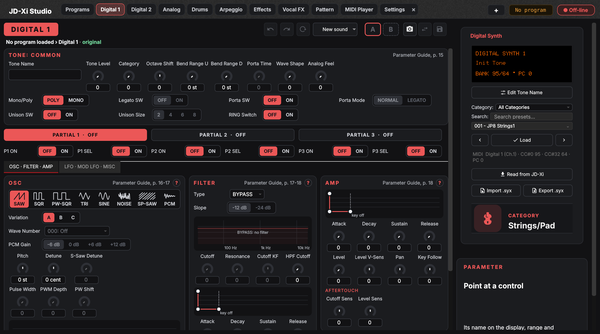
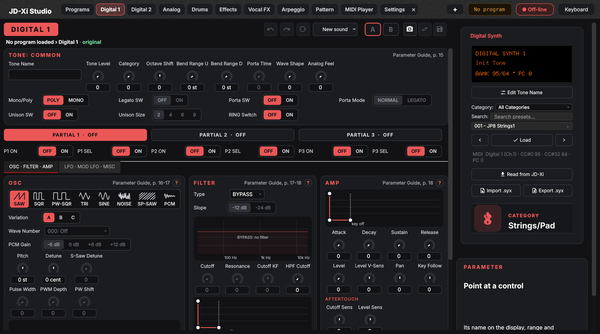
Version 1.0.0rc1 (v1.0.0-rc.1): CHANGELOG section, What's new, docs, screenshots
CHANGELOG: the Unreleased changes are 1.0.0-rc.1 (2026-11-22). What's new
covers the MIDI Player (sounds of the parts, GM filter, Solo, timing),
the Programs mixer and the menus. MIDI Player docs: None played, Sounds
of the parts, Channels, Event filter. Screenshots captured again.

Claude-Session: https://claude.ai/code/session_01FkUcAB82dzxH97bL4dyfe5

diff --git a/jdxi_editor/project.py b/jdxi_editor/project.py
@@ -1,6 +1,6 @@
 """Project metadata and version information for JD-Xi Studio."""
 
-__version__ = "1.0.0b2"  # PEP 440; the release tag is v1.0.0-beta.2
+__version__ = "1.0.0rc1"  # PEP 440; the release tag is v1.0.0-rc.1
 # An independent edition of JDXI-Editor by Mark Brooks, with a name of its own
 # everywhere (interface, installer, settings, user folder), so the two can be
 # installed side by side and are never confused

diff --git a/doc/whats-new.rst b/doc/whats-new.rst
@@ -1,16 +1,27 @@
 What's New in 1.0.0 rc 1
 ========================
 
-The release candidate: the MIDI Player fits a file to the JD-Xi, the state shown is closer to what
-the JD-Xi really holds, and FluidSynth is gone.
+The release candidate: the MIDI Player fits a General MIDI file to the JD-Xi — its tracks and its
+sounds — and plays it on time, the Programs page is a mixer, the menus follow the app. Tried on the
+JD-Xi: the fixes from those checks are in this version.
 
 MIDI Player
 -----------
 
-* The «MIDI file» tab is the **MIDI Player**.
-* **Fit to the JD-Xi** says which of the file's tracks the JD-Xi plays; **Assign tracks to
-  parts…** proposes a part for each (drums, then one track each for Digital 1, Digital 2, Analog),
-  to check and apply. **Starting sounds** gives the parts a sound to start from.
+* The «MIDI file» tab is the **MIDI Player**; **Close** empties it (asking first when the file has
+  changes not saved).
+* **Fit to the JD-Xi** says which of the file's tracks the JD-Xi plays. **Assign tracks to parts…**
+  proposes a part for each (drums, then one track each for Digital 1, Digital 2, Analog), in the
+  parts' colours; **None played** to choose only the tracks you want; opened again, it shows what
+  was applied.
+* **Sounds of the parts**: the JD-Xi presets closest to the file's General MIDI instruments (a
+  Digital tone, an Analog bass or lead, a drum kit), written into the file and sent on Apply — a
+  GM file sounds close to its original the first time it is played.
+* Event filter › **GM** (on by default): a General MIDI file's program changes no longer change
+  the parts' sounds (and lose the edits not saved); the JD-Xi's own still go.
+* **Channels**: Mute and **Solo** per channel, as on a mixer.
+* On time on Windows: notes leave on average 0.6 ms after when the file says (it was about 8 ms);
+  two tracks on the same note no longer leave it hanging.
 * Big files load in seconds, with their progress on the display; the Pattern imports the file when
   shown, its first 64 bars.
 * Tracks: **Expand** for more room, a grip for their height; a track without a name shows the
@@ -20,8 +31,23 @@ MIDI Player
 Programs
 --------
 
+* The mixer: above each fader the part's **Pan**, **Delay** and **Reverb**; the faders are the
+  editors' levels. **Undo / Redo** of the whole program, in any tab.
+* **Program settings** (was *Program parts*), right after Programs: what the program keeps besides
+  its tones, part by part.
 * Playlist: Add / Remove over the songs, Play, Stop, Pause and **Mix** in a compact row; the
   **Extra sound** column (a Digital preset on the Analog part) readable.
+
+Windows and menus
+-----------------
+
+* The menus follow the app: **File** (Patch, MIDI Player, Preferences), **Editor** (the tabs, in
+  their order, Ctrl+0–9), **JD-Xi**, **Tools**, **Window**, **Help**; what cannot be done is greyed
+  out, its tooltip saying why. Ctrl+O / Ctrl+S are the patch's.
+* **Editors** in the keyboard window and **Keyboard** in the editors window bring the other one up.
+* Keyboard window: the LFO **Rate** slider moves the LFO rate (it moved the Amp depth); **Env**
+  starts in the middle, where the program is as saved.
+* The «JD-Xi connected» badge goes Off-line when the JD-Xi is switched off.
 
 What the JD-Xi holds
 --------------------

diff --git a/doc/midi_file_player.rst b/doc/midi_file_player.rst
@@ -19,11 +19,23 @@ Fit to the JD-Xi
 * **Assign tracks to parts…** proposes a part for each track that plays notes, in a table you
   can change before **Apply**: the drum tracks to Drums; for each melodic part the one track
   recognised best for it — the bass to Digital 1, keys or guitars to Digital 2, strings to Analog
-  (the Analog part plays one note at a time); the other tracks are not played. A track's channel
-  can also be set by hand in its header.
+  (the Analog part plays one note at a time); the other tracks are not played. The Part column
+  shows each part in its colour, grey when not played. **None played** sets every track «Not
+  played», to choose only the ones you want; **Proposal** and **As now** switch between the
+  proposal and the parts the tracks are on (opened again after Apply, it shows what was applied).
+  A track's channel can also be set by hand in its header.
+* **Sounds of the parts**, under the table: for each part the JD-Xi preset closest to the General
+  MIDI instrument of its main track (the one with the most notes) — a Digital tone for Digital 1
+  and 2, an Analog tone for the Analog part (basses and leads: a lead played low is a bass line),
+  a drum kit for the Drums. On Apply it takes the place of the file's program changes on that part
+  and is sent to the JD-Xi, so a General MIDI file sounds close to its original the first time.
+  Each can be changed, or left **Unchanged**.
 * **Starting sounds** gives the parts a sound to start from, also written into the file:
   Digital 1 Picked Bass, Digital 2 Piano, Analog JP8 Strings.
-* The mute buttons of channels 1, 2, 3 and 10 stand out; their tooltip says which part plays them.
+* **Channels**: per channel its number, **M** (mute, red) and **S** (solo, green). With one or
+  more channels soloed only those play; the mutes are kept, back as they were when the solos go
+  off; the channels a solo silences are dimmed. Channels 1, 2, 3 and 10 stand out; the tooltips
+  say which part plays them.
 
 The file on disk changes only when you save it. **Close** (in the Player card, or File › MIDI
 Player › Close) empties the player as at start; when the file has changes not saved yet it asks
@@ -47,8 +59,12 @@ Playback
 * **Loop** repeats the A–B range, or the whole song when none is set. **A** and **B** take the
   playback position (snapped to bars if chosen); A shows on the ruler at once, the range when B
   is set. **Trim** keeps only a part of the file.
-* **Event filter**: the file's program changes (PC) and controllers (CC) can be kept from the
-  JD-Xi.
+* **Event filter**: what of the file is not sent to the JD-Xi. **GM** (on by default): the program
+  changes that do not choose a JD-Xi sound — a General MIDI file's, which would change the parts'
+  sounds and lose the edits not saved; those after a JD-Xi bank select (a file made for the
+  JD-Xi, the Automation's) still go. **PC**: all program changes. **CC**: the controllers.
+* Two tracks playing the same note on one part retrigger it instead of doubling it (no note left
+  hanging until Panic).
 
 USB recorder
 ============

diff --git a/doc/hardware-test-plan.md b/doc/hardware-test-plan.md
@@ -92,7 +92,7 @@ al tuo resoconto.
 
 | | Fai | Deve succedere |
 |---|---|---|
-| 2.1 | Avvia JD-Xi Studio | Splash con il logo, «Versione 1.0.0-beta.N» uguale a quella installata; nessun messaggio d'errore |
+| 2.1 | Avvia JD-Xi Studio | Splash con il logo, «Versione 1.0.0-rc.N» uguale a quella installata; nessun messaggio d'errore |
 | 2.2 | Finestra MIDI all'avvio (o JD-Xi › Configurazione MIDI) | Ingresso e uscita **JD-Xi** già scelti; la finestra è davanti alle altre, anche con la tastiera fissata in primo piano |
 | 2.3 | Guarda la barra in alto a destra dell'editor | «JD-Xi collegato» in verde; il nome del programma corrente del JD-Xi nel display |
 | 2.4 | Strumenti › Visualizzatore log | Il log di questa sessione (con data e ora nel nome); scheda *Avvisi ed errori* vuota o quasi; **nessuna** riga «MIDI output port is not open» o «No reply to RQ1» |
@@ -290,7 +290,7 @@ Ripeti 4.1, 4.5, 4.7, 6.1 e 8.1 su ogni schermo che usi (es. 1080p al 125%, 2496
 Copia e compila (una riga per passo eseguito):
 
 ```
-Versione: 1.0.0-beta.N    Data:            Schermo: 1920x1080 125%   Firmware JD-Xi:
+Versione: 1.0.0-rc.N    Data:            Schermo: 1920x1080 125%   Firmware JD-Xi:
 Script: OK __ / KO __ / saltati __        (allega il file .md)
 
 | Passo | Esito | Note |

diff --git a/README.md b/README.md
@@ -175,10 +175,10 @@ macOS and Linux use `install.sh` (above).
 
 ### Releasing
 
-1. Set the version in `jdxi_editor/project.py` (`__version__ = "1.0.0b1"`, PEP 440) and add its
+1. Set the version in `jdxi_editor/project.py` (`__version__ = "1.0.0rc1"`, PEP 440) and add its
    section to `CHANGELOG.md`; merge into `main`.
 2. **Actions › Release › Run workflow** on `main`. The workflow runs the tests, builds the Windows
-   installer, the portable app and the Python wheel, creates the tag (`v1.0.0-beta.1`) and the
+   installer, the portable app and the Python wheel, creates the tag (`v1.0.0-rc.1`) and the
    release (a pre-release for alpha, beta and rc), attaches every file and publishes it.
 3. Verify it on the instrument: [`doc/hardware-test-plan.md`](doc/hardware-test-plan.md) (the
    automatic part, with the app closed: `python scripts/hardware_check.py` and

diff --git a/CHANGELOG.md b/CHANGELOG.md
@@ -4,6 +4,13 @@ All notable changes to JD-Xi Studio (and, before 1.0, to this fork of JDXI-Edito
 
 # [Unreleased]
 
+# [1.0.0-rc.1] - 2026-11-22
+
+The release candidate. The MIDI Player fits a General MIDI file to the JD-Xi — its tracks on the
+four parts, and the JD-Xi sounds closest to its instruments — and plays it on time on Windows too;
+the Programs page is a mixer with Pan, Delay and Reverb and its own Undo; the menus follow the app.
+Tried on the JD-Xi (the checks of `doc/hardware-test-plan.md`, the fixes from them below).
+
 ### Changes
 - MIDI Player › Assign the tracks to the parts: **Sounds of the parts**. For each part the JD-Xi
   preset closest to the General MIDI instrument of its main track (the one with the most notes): a

diff --git a/doc/playing-midi-files.rst b/doc/playing-midi-files.rst
@@ -17,8 +17,8 @@ Typical Workflow
 
 1. **Load a MIDI file** in the MIDI Player (its Load button, File › MIDI Player › Open…, or drag-and-drop)
 2. **Fit to the JD-Xi** (for a general MIDI file): **Assign tracks to parts…**, check the
-   proposal, Apply; or a track's channel in its header. **Starting sounds** gives the parts a sound
-   to start from
+   proposal and the **Sounds of the parts** (the JD-Xi presets closest to the file's General MIDI
+   instruments), Apply; or a track's channel in its header
 3. **Play**: Start playback on the JD-Xi
 4. **Edit in Pattern Editor** (optional): Load into Pattern Editor → edit steps → Save Pattern
 
